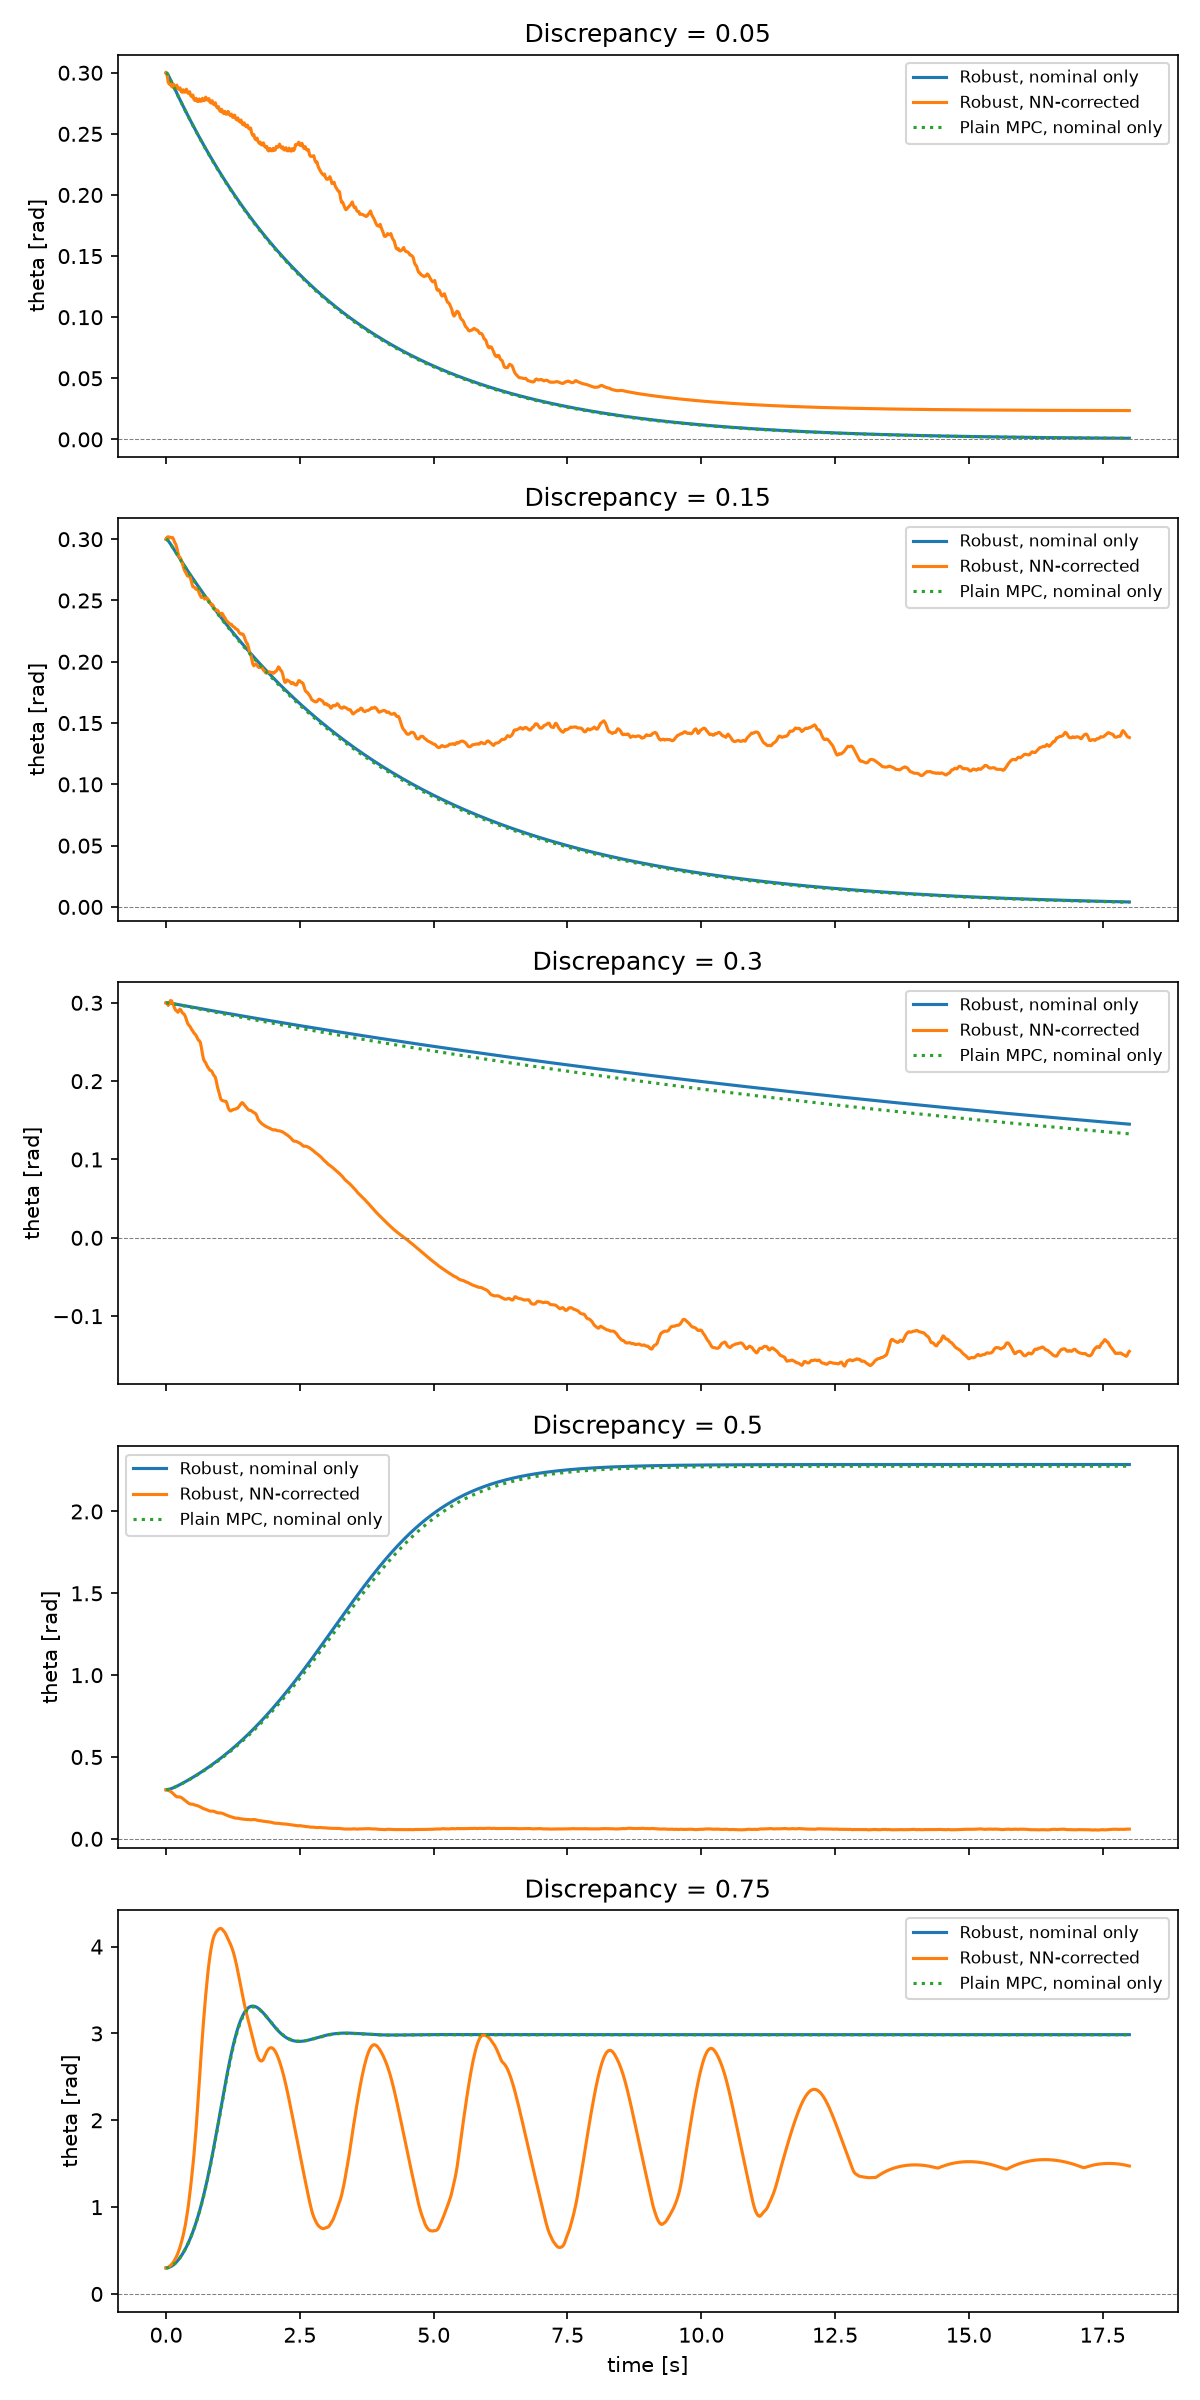
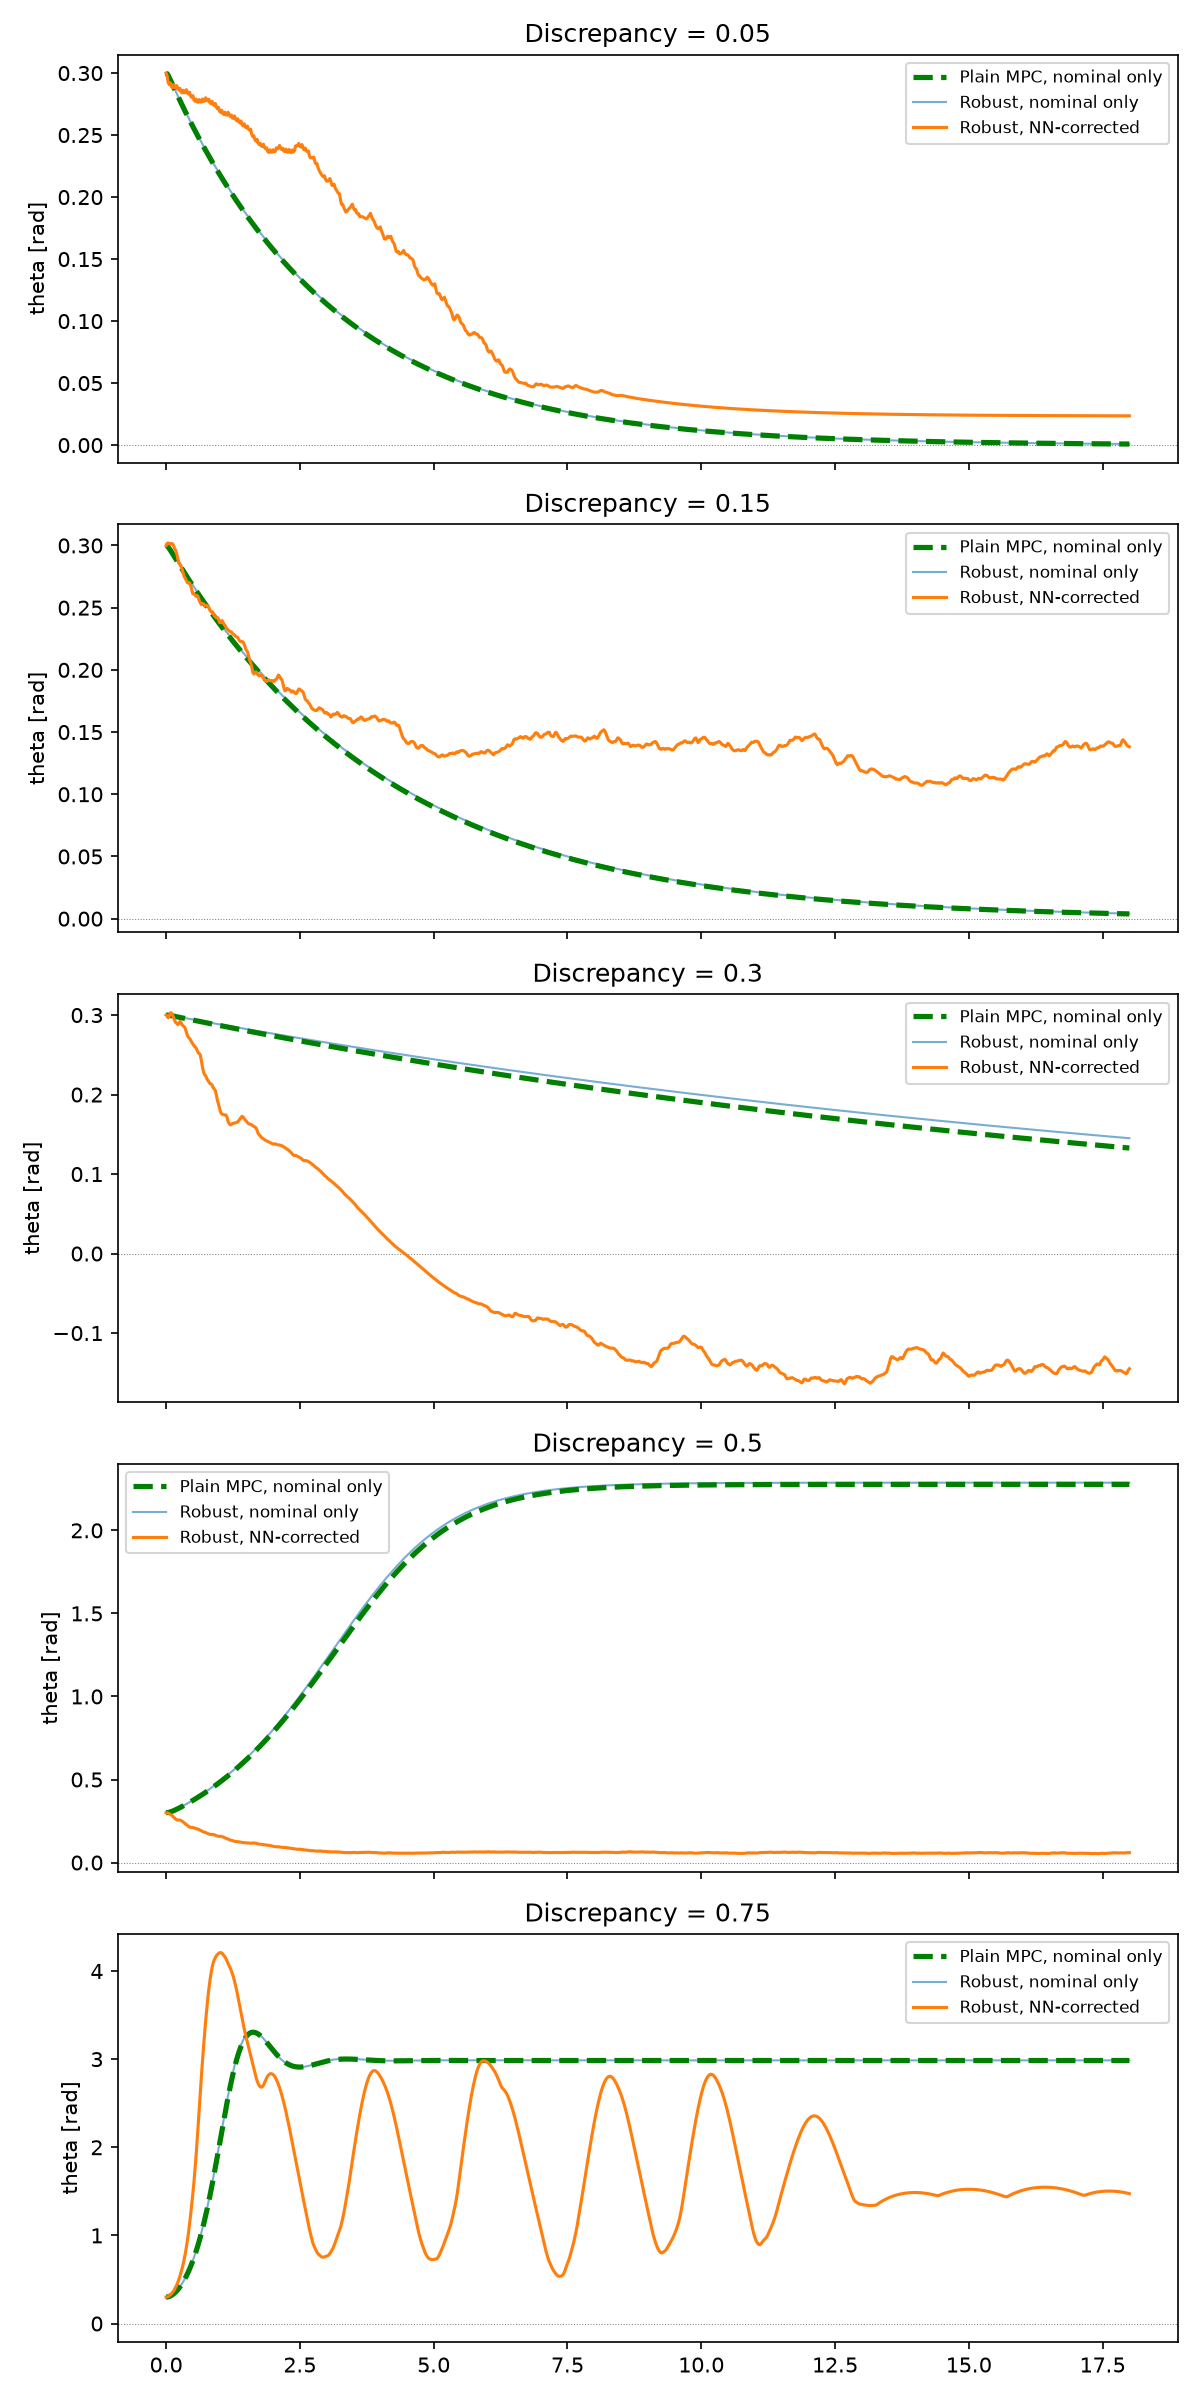
report writing

diff --git a/plot_results.py b/plot_results.py
@@ -3,26 +3,25 @@ import matplotlib.pyplot as plt
 
 discrepancy_levels = [0.05, 0.15, 0.30, 0.50, 0.75]
 dt = 0.02
-
 fig, axes = plt.subplots(len(discrepancy_levels), 1, figsize=(8, 16), sharex=True)
-
-
-
 for i, level in enumerate(discrepancy_levels):
     traj_false = np.load(f'results/traj_{level}_False.npz')['trajectory']
     traj_true = np.load(f'results/traj_{level}_True.npz')['trajectory']
-    traj_plain = np.load(f'results/traj_{level}_plain.npz')['trajectory']   # NEW
+    traj_plain = np.load(f'results/traj_{level}_plain.npz')['trajectory']
 
     time = np.arange(len(traj_false)) * dt
 
-    axes[i].plot(time, traj_false[:, 0], label='Robust, nominal only')
-    axes[i].plot(time, traj_true[:, 0], label='Robust, NN-corrected')
-    axes[i].plot(time, traj_plain[:, 0], label='Plain MPC, nominal only', linestyle=':')   # NEW
-    axes[i].axhline(0, color='gray', linestyle='--', linewidth=0.5)
+    axes[i].plot(time, traj_plain[:, 0], label='Plain MPC, nominal only',
+                 color='green', linewidth=2.5, linestyle='--', zorder=3)
+    axes[i].plot(time, traj_false[:, 0], label='Robust, nominal only',
+                 color='tab:blue', linewidth=1.0, alpha=0.6, zorder=2)
+    axes[i].plot(time, traj_true[:, 0], label='Robust, NN-corrected',
+                 color='tab:orange', linewidth=1.5, zorder=4)
+
+    axes[i].axhline(0, color='gray', linestyle=':', linewidth=0.5, zorder=1)
     axes[i].set_ylabel('theta [rad]')
     axes[i].set_title(f'Discrepancy = {level}')
     axes[i].legend(fontsize=8)
-axes[-1].set_xlabel('time [s]')
 plt.tight_layout()
 plt.savefig('results/theta_comparison.png', dpi=150)
 plt.show()
